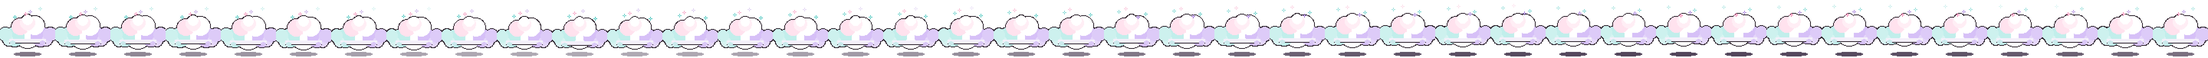
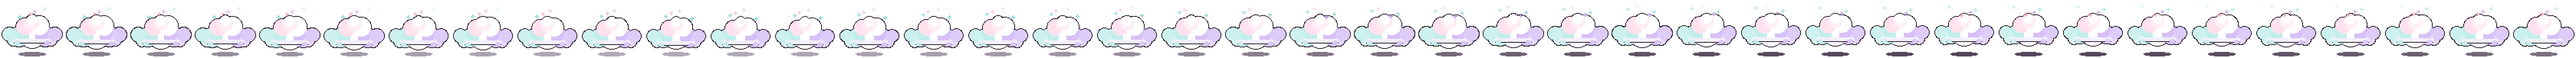
Dance Sisters v73: the big Spirit clouds are no longer cut off at the sides
Wider pictures with an edge check, and a big cloud's spot is kept
inside the stage.

Claude-Session: https://claude.ai/code/session_01KjbiH1Gxo3FA48ifQDakKd

diff --git a/dance/app.js b/dance/app.js
@@ -4,7 +4,7 @@
    decision, 30 Oct 2026: the names are fixed in the game); a level is "<stage> <name>". Save in
    localStorage['dance.save']; nothing is sent anywhere. */
 'use strict';
-const APP_VERSION = '72';
+const APP_VERSION = '73';
 const ART = 'art/'; let ART_V = '';
 const NAMES = ['Lainey', 'Miri', 'Juliette'];   // youngest first
 let SPEC = null;
@@ -145,7 +145,13 @@ const SPIRIT_MAX = 100;
 // the Spirit grows at 5 / 10 / 25 / 40 (the same cloud, bigger) and becomes a new, larger cloud at 50 / 70 / 90 (`tiers` in dancers.json, drawn by spirit.py)
 const SPIRIT_GROWS = [5, 10, 25, 40, 50, 70, 90];
 const spiritTier = sl => sl >= 90 ? 3 : sl >= 70 ? 2 : sl >= 50 ? 1 : 0;
-const spiritScale = sl => sl >= 90 ? 1.5 : sl >= 70 ? 1.4 : sl >= 50 ? 1.3 : sl >= 40 ? 1.25 : sl >= 25 ? 1.1 : sl >= 10 ? .95 : sl >= 5 ? .8 : .65;
+const spiritScale = sl => sl >= 90 ? 1.15 : sl >= 70 ? 1.25 : sl >= 50 ? 1.2 : sl >= 40 ? 1.25 : sl >= 25 ? 1.1 : sl >= 10 ? .95 : sl >= 5 ? .8 : .65;
+// a big cloud is kept inside the stage: its spot can come no nearer the sides than half its width (v73: the owner saw the clouds cut off at the sides)
+function keepIn(b) {
+  if (b.lv !== SPIRIT) return;
+  const pic = spiritPic(b.sl || 1), half = (pic.w || SPEC.w) * SCALE * spiritScale(b.sl || 1) / 2, fw = field.getBoundingClientRect().width || 370;
+  const m = Math.min(46, Math.max(6, half / fw * 100 + 1)); b.x = Math.max(m, Math.min(100 - m, b.x));
+}
 const spiritPic = sl => { const c = CHAIN[SPIRIT], t = (c.tiers || [])[spiritTier(sl)]; return t ? { ...c, sheet: t.sheet, top: t.top, w: t.w, h: t.h, mid: t.mid } : c; };
 
 /* ---------- the field ---------- */
@@ -172,7 +178,7 @@ const rnd = (a, b) => a + Math.random() * (b - a);
 function spot() { return { x: rnd(14, 86), y: rnd(60, 92) }; }
 function place(b, pop = false) {
   const el = document.createElement('div'); el.className = 'beast' + (pop ? ' pop' : '') + (Math.random() < .5 ? ' flip' : '') + (CHAIN[b.lv].stage === 0 ? ' crawl' : '');
-  const pic = b.lv === SPIRIT ? spiritPic(b.sl || 1) : CHAIN[b.lv];
+  keepIn(b); const pic = b.lv === SPIRIT ? spiritPic(b.sl || 1) : CHAIN[b.lv];
   el.innerHTML = `${spriteHTML(pic)}${lvHTML(b.lv + 1, pic)}`;
   if (b.lv === SPIRIT) {   // the cloud: semi-transparent, sized by its level (a bigger picture from 50 / 70 / 90), the level number in the middle
     const sl = b.sl || 1, ss = spiritScale(sl), tier = spiritTier(sl); el.classList.add('spirit'); el.style.setProperty('--ss', ss);
@@ -191,7 +197,7 @@ function wander() {
     const c = CHAIN[b.lv]; let run = null;
     if (c.crawl) { const k = frameNo % c.frames; run = c.crawl.find(r => k >= r[0] && k < r[0] + 5 && r[1] - r[0] > 8); if (!run) continue; }
     if (Math.random() < (run ? .7 : .25) && !(els[b.id] && els[b.id].classList.contains('drag'))) {
-      if (run && els[b.id]) els[b.id].style.transitionDuration = ((run[1] - run[0]) * 40 - 100) + 'ms'; const s = spot(); const el = els[b.id]; if (el) { el.classList.toggle('flip', s.x < b.x); } b.x = s.x; b.y = s.y; if (el) { el.style.left = s.x + '%'; el.style.top = s.y + '%'; } } }
+      if (run && els[b.id]) els[b.id].style.transitionDuration = ((run[1] - run[0]) * 40 - 100) + 'ms'; const s = spot(); const el = els[b.id]; if (el) { el.classList.toggle('flip', s.x < b.x); } b.x = s.x; b.y = s.y; keepIn(b); if (el) { el.style.left = s.x + '%'; el.style.top = s.y + '%'; } } }
 }
 let nextId = () => (save.nid = (save.nid || 0) + 1);
 function addBeast(lv, at, pop = true, sl = 1) {
@@ -213,7 +219,7 @@ function bindBeast(el, b) {
     if (!moved && Math.hypot(e.clientX - start.x, e.clientY - start.y) < 6) return;
     moved = true; el.classList.add('drag');
     const r = field.getBoundingClientRect();
-    b.x = Math.max(6, Math.min(94, (e.clientX - r.left) / r.width * 100)); b.y = Math.max(20, Math.min(94, (e.clientY - r.top) / r.height * 100));
+    b.x = Math.max(6, Math.min(94, (e.clientX - r.left) / r.width * 100)); b.y = Math.max(20, Math.min(94, (e.clientY - r.top) / r.height * 100)); keepIn(b);
     el.style.left = b.x + '%'; el.style.top = b.y + '%';
     const t = twinNear(b); if (t !== target) { if (target && els[target.id]) els[target.id].classList.remove('target'); target = t; if (t && els[t.id]) els[t.id].classList.add('target'); }
   };

diff --git a/dance/sw.js b/dance/sw.js
@@ -1,6 +1,6 @@
 // Dance Sisters service worker: the app shell is cached on install; the pictures under art/ are cached as they are fetched
 // (cache first after that) and app.js fetches every one of them once (saveOffline), so the game plays with no connection. Bump CACHE together with APP_VERSION in app.js.
-const CACHE = 'dance-v72';
+const CACHE = 'dance-v73';
 const SHELL = ['./', 'index.html', 'app.js', 'style.css', 'manifest.webmanifest', 'dancers.json', 'art/font.json', 'art/font.png', 'art/font_w.png', 'icons/icon-192.png', 'icons/icon-512.png', 'icons/apple-touch-icon-180.png'];
 self.addEventListener('install', e => { e.waitUntil(caches.open(CACHE).then(c => Promise.all(SHELL.map(u => c.add(u).catch(() => {})))).then(() => self.skipWaiting())); });
 // on activation, anything the new cache is missing (a shell file whose install fetch failed on a poor connection) is copied

diff --git a/CLAUDE.md b/CLAUDE.md
@@ -622,7 +622,7 @@ The Merge Beasts engine with **dancers**, at **latin.musicalmagic.uk/dance/** (`
 wording and sprites swapped; same save shape in `localStorage['dance.save']`). **The chain is 36 stages × 3 sisters = 108
 levels (v36: the owner wants twelve characters in every room, so nine rooms × four stages; `sisters7.py`; `load` remaps a save from the 20-stage chain by stage name, `save.chainv` = 2)** (`dance/dancers.json`: stage, sister, stageName, sheet, frames, top, crawl; worlds by stage, four each: Nursery 0–3 (Baby, Tot, **Birthday** — party hat, striped top, a balloon; a bounce, a sway and claps, a twirl — Nursery), Dance school 4–7 (Leotard, Dance school, First tutu, Jazz),
 Ballet theatre 8–11 (En pointe, Swan, **Sugar Plum** — the Nutcracker fairy, lilac tutu dotted in her colour, a wand; hops on pointe, a port de bras, piqué turns — Prima), City stage 12–15 (Street, **Tap** — waistcoat, bowler, black tap shoes; shuffle-hop, soft-shoe sway, pivot and stamp — **Salsa** — ruffles, red heels, hoop earrings; the basic step, hip sway, the cross-body turn — Stage star), World tour 16–19 (World tour, **Bollywood** — orange choli, gold bangles, a flower; shoulder bounces and jumps, wrist circles and the head slide, a spin — Movie star, Royal gala), Academy 20–23 (Teacher, **Examiner** — grey suit, a clipboard; marks, a nod, a hop — **Judge** — sequinned jacket, the "10" paddle — **Graduate** — gown and mortarboard; a jump for joy, hand on heart, a wave; `bg_academy`: a hall with three portraits, a trophy cabinet, a red carpet), **Studio 24–27** (**Rehearsal** — leggings, leg warmers `warmers`, a water bottle; star jumps, stretches, a lunge — Choreographer, **Dance captain** — black tee with her star; counts and jumps, arm sweeps, turning to the line — **Coach** — tracksuit and cap; squats, stretches, claps; `bg_studio`: a mirror wall with the cast reflected, a barre, a whiteboard, a chair, a boombox, tape marks), **Stage door 28–31** (**Understudy** — rehearsal greys, the script; Director, **Leading lady** — feather boa `collar: 'boa'`, long gloves; a kick, the boa sweep, a spin — **Producer** — the suit, a phone; `bg_stagedoor`: backstage bricks, the star door and its sign, a lamp, a costume rail, a flight case, a rope), **Hall of fame 32–35** (Icon, **Statue** — gold from head to toe, `skin_override` / `hairc_override`; a held pose and a bounce, a slow shimmer, a slow turn — **Superstar** — gold fringe and gloves, a boa; a leap, the sweep, a spin — Legend; new hats `partyhat` / `bowler` / `mortar`, props `wand` / `clipboard` / `paddle` / `bottle` / `script` / `phone`; `bg_hall`: spotlights, three framed stars in the sisters' colours, a chandelier, a marble plinth with a gold star, velvet ropes, a red carpet; `scratchpad/dancers/rooms2.py`) — **`load` migrates saves when rooms are split (v35)**: every dancer moves to the room of her stage, a bag that pointed into a later room moves there (clamped inside each room's levels), and the open rooms follow what has been made; stages: Baby, Tot, Nursery, Leotard, Dance school, First tutu,
-Jazz, En pointe, Swan, Prima, Street, Stage star, World tour, Movie star (dark bodice, long gown, flashbulbs), Royal gala (pale gown, tiara, a waltz), Teacher (bun, cardigan, black skirt, cane), **Choreographer** (all black, headset, shoes in her colour: marking the counts / arm cues / a spin to face the cast), **Director** (black coat, the beret in her dark shade and the scarf in her colour — `hatc` / `patc` on the figure, v65, after the owner found Miri and Juliette identical in all black with a red scarf: the bow from the wings), **Icon** (her colour head to toe, a silver streak: her earliest move perfected — Lainey's toddler jump as a tuck jump, Miri's sway as swan arms, Juliette's wobbly twirl as a clean double pirouette), Legend; `DESC` one line each). **A new game starts with `chainv: 2` (v60)**: the v36 old-chain conversion in `load` ran on every fresh save too (no `chainv`), and it maps a bag at a room's first level by *old* stage name — the Dance school bag went from Leotard Lainey (12) to Dance school Lainey (15), so the three Leotard dancers could never appear (the owner's daughter saw "the game has skipped 3 characters"); `load` also repairs any save whose bag sits above an unmade level of its room by putting the bag back to the lowest unmade level (a legitimately upgraded bag has every level below it made), tested by `scratchpad/dance-skip.js`. **The economy (31 Oct 2026, after the owner's daughters finished the first version in an afternoon)**: a better bag costs `crateUpCost` = 300 × 1.38^L (1.45 until v36; 108 levels) and **must be earned — the dancer three levels above the bag has to have been made by merging first** (`GATE` = 3, the owner's rule on 31 Oct 2026 after one level proved too easy and two had looked like a bug; near the end the gate is the last dancer; `crateGate` / `crateEarned`, `save.seen`; the shop row says "Locked: make … by merging first" and the button reads 🔒 Locked instead of a price), an Invite is `priceOf` = 40 × 1.35^L. **The Spirit of Dance (v46)**: level 108, stage 36, the one level above Legend Juliette — **two Legend Juliettes merge into it** (the owner's ask): a soft cloud with hints of the three sisters' colours (teal left, pink top, purple right, three sparkles in their colours, no face; `scratchpad/dancers/spirit.py`, 40 frames, `art/s37_1.png`, drawn at 48 × 64 and doubled; `sisters7.py` appends it on every rebuild) — **the owner chose this over an energy-nebula version (v48–v50, kept in `spirit_nebula.py`): "go back to this version, it was better"**, `sister: -1` in `dancers.json`, `spirit: true` in `CHAIN`, named "Spirit of / Dance" above the cloud (`lvHTML`), fanfare kicker "✨ THE SPIRIT OF DANCE ✨", `save.spirit` the first time; **it has a level (v47)**: `b.sl` 1–100 (`SPIRIT_MAX`), shown in the middle of the cloud in the dark pixel font (`.sn`), a Spirit absorbs a Legend Juliette (+1, dragged either way) or another Spirit (the levels add; `canMerge`), it is moved like any dancer, its Dancepedia line is "The spirit grows." (`DESC[36]`), the cloud is semi-transparent (`.beast.spirit .spr` opacity .8) and **grows at 5 / 10 / 25 / 40 (`spiritScale` .65 → .8 → .95 → 1.1 → 1.25, `--ss`) and becomes a new, larger cloud at 50 / 70 / 90 (v69, the owner wanted far more growth: `tiers` on the Spirit's entry in `dancers.json` — `s37_1..4.png`, drawn by `spirit.py` on their own wider pictures 96 × 128 / 144 × 152 / 184 × 184 / 224 × 216 (v70, wider as well as taller: `WX` spreads the puffs sideways and `EXTRA` adds flank puffs) with the puffs grown and multiplied and more sparkles; `spiritTier` / `spiritPic` pick the sheet in `place`, `spriteHTML` honours a level's own `w` / `h`, the cloud is centred on its spot with `.beast.spirit .spr` absolute and never mirrored, the level number's `bottom` comes from the tier's `mid`, scales 1.3 / 1.4 / 1.5, so the top cloud is ~290 px wide on a phone; `SPIRIT_GROWS` for the toasts; `scratchpad/dance-spirit3.js` screenshots every growth level), earns its level × a dancer's rate (`earns`); **level 100 wins the game** (`won()`, once, `save.won`: the owner's words — "Congratulations … The girls have gone beyond being physical dancers and have become the universal spirit of dance itself …" — with RESTART ON HARD MODE as the only button — **Keep playing was removed in v68** (the owner: the game makes no sense in that state) and `main()` shows the ending again on every launch while `save.won` is set, so the only way on is the hard restart). **Hard mode** (`hardMode`, `save.hard` counts restarts): everything is undone — dancers, coins, bags, upgrades, Dancepedia, stars, encores — and `RATE` is halved per hard restart; a `#hardTag` after the rate in the top bar; it lives in the Hall of fame (`stages: [32, 36]`); bags never bring it (`canUp` stops at `CHAIN.length - 2`); two Spirits cannot merge (the Hall opens) and a Spirit or a Legend Juliette can be retired (`isFinal` = `LEGEND` or `SPIRIT`, both set in `buildChain`). **The ending** (`discover` on `LEGEND` = Legend Juliette, not the last level → `finale`, once, `save.finished`; the trio is `CHAIN.slice(LEGEND - 2, LEGEND + 1)`): a curtain-call overlay (`.finale`: red curtains part, the three Legends dancing, a pixel trophy `art/trophy.png`, confetti, "You did it!"), then the Spirit. **The Hall of Fame sheet (the 🏆 button, Retire a Legend for a ⭐ and two hours' coins) was removed in v66** — the owner: that was the old 'encore' ending, replaced by the Spirit of Dance; `main()` removes `#hallBtn` from an older cached page; **hard mode is offered only on the Congratulations screen when the Spirit reaches 100** (v67, the owner: the Dancepedia link is just a restart / delete-my-progress link). **Encore was removed in v61** (the owner: the Spirit ending replaced it); `RATE` still honours `save.encore` for the few saves that used it. **Start the game again (v62, v64)**: a link at the bottom of the Dancepedia (always reachable — the owner looked for it there) and of the Hall of Fame (`NEW_GAME_LINK`, `newGame()`) wipes the save to a fresh one after two confirms (no bonus, no penalty; `save.hard` is dropped too). The Home button (the house in the top bar linking to the games list) was dropped in v62 at the owner's request. **Costumes and moves were audited against real dance conventions (v45, 31 Oct 2026; `scratchpad/dancers/audit_current.md` + `research_ballet.md` / `research_styles.md` / `research_roles.md`: the RAD uniform guide, Odette / Sugar Plum costume guides, tap / jazz / salsa / flamenco / fan dance / Bollywood conventions)** and the mismatches fixed in `sisters7.py`: pink tights and shoes in every ballet stage (never white); En pointe is class wear (leotard, little skirt, pink pointe shoes with `ribbons`, bun — no tutu); Swan, Sugar Plum and Prima wear the classical `tutu` (the romantic `tutu_big` is Giselle), Odette all white with a tiara and only a pale sash in her colour, the Sugar Plum Fairy and the Prima a tiara too (`prop` may be a tuple: two props at once); the hats were the wrong way round — the top hat is tap / vaudeville, the bowler is Fosse jazz — so **Jazz** is a class (no hat, tan jazz shoes, hair back) and **Tap** has the top hat, a black waistcoat (`pattern: 'vest'`), a red bow tie (`collar: 'bowtie'`) and black tap shoes; **Salsa** is a plain fringed dress with gold heels and hoop `earrings` (dots + tiers are the flamenco dress, which went to World tour Lainey with the rose in a bun and red heels); World tour Miri dances barefoot (`shoes: 'bare'`), Juliette's fan dance is Chinese (long dress, water sleeves `sleeves: 'wide'`, gold sash, flower in an updo); **Bollywood** has real `gloves: 'bangles'` (gold bands on bare arms) and jhumka earrings; the **Teacher** wears class wear (fitted top, black wrap skirt, pink tights, flats — the cane and white collar were a schoolmistress); the **Choreographer** has her hood down and no headset (the stage manager's); the **Leading lady** takes the curtain call with a bouquet and the boa stays the Superstar's. Moves changed: Salsa Lainey never leaves the floor (hip bounce on the pause, a kick shine); Tap Miri does flap-flap-ball-change travelling, Juliette a shuffle-ball-change into a paddle turn and a stamp; flamenco Lainey is grounded (palmas and a floreo in place of the jump); Royal gala Lainey rises and falls in the waltz instead of jumping; Choreographer Lainey marks the counts small then one full jump; Examiner Lainey rises tall, nods and ticks (examiners never show approval); Leading lady Miri bows with the bouquet and blows a kiss; Statue Lainey holds, then one slow rise onto demi-pointe; Birthday Juliette twirls and bobs (the jump was Lainey's). Pointe-shoe `ribbons` are crossed round the ankle along the shin (from the knee or hip to the foot, so a raised leg keeps them) in a darker pink than the tights (v52: they used to stand straight up from the foot in the tights' own pink, so floated off a lifted leg and vanished). **Costume audit v53 (the owner: "fix all")**: ballet and pointe shoes are `pink` (deeper than the `pinklight` tights, which had hidden them), Tap shoes `'tap'` (black with a silver plate and shine), the Understudy's flats in her colour, the Swan's sash in her full colour; `warmers` run along the shin like the ribbons (`dress_foot`); from behind the star, earrings, streak, rose, flower and bow stay (mirrored); a real kick under a long / gown / dress / ruffle skirt — the foot above `base − ll × .5` and clear of the hem by 3 (v56: the first rule, `base − ll × .45` alone, put a toddler's black shoe on her dress in every Nursery jump, since the dress reaches below her feet) — is redrawn on top so the skirt parts round it (`legs_`); the coin belt narrows with the turn (`SW`); a prop in the far hand is drawn behind the body (`PROP_HAND`, `draw_prop` at module level, called after the far arm and again after the head for the near hand); hair lags the rise and fall (`hlag`, the hanging parts of straight / pony / curly / wavy / bunches) and the fringe, hair and balloon string sway with travel and lean (`sway`), both set per frame in `sisters7.py` like `tdy`. **Animation audit v54 (the owner: skirts "sit 2-dimensionally on top", clothes "move independently"; "fix all")**: the skirt's waist stays on the hips and only the hem lags (`hb` = `tdy` on the bottom points; the old whole-skirt lag made the skirt slide over the bodice); a `lean` tilts the spine from the hips (`la_`, the shoulders drop by `th(1 − cos)`) and tips the head (`s.tilt`: one eye higher than the other, the head offset along the tilt); a `bend` folds forward (`s.bow`: the head comes down in front of the chest by `bend × 1.35`, the features sit lower on the face); a tutu is a tilting disc (`disc`, `tilt` from a leg raised above `hip + ll × .3`); a raised knee lifts the hem of a short skirt or dress on its side (`lift_l / lift_r`); a turn flares the hem (`spin` = 14 × |Δturn| per frame from `sisters7.py`, `FL`), including the fringe and the ruffle tiers; dots and stripes shear with the torso (`shear(yy)`); a soft ground shadow under every figure, smaller and fainter with `lift` (`ground`, composited after the outline pass; `fig5` passes scale 2); held props continue the forearm's line (`draw_prop(…, d)`, `arm_dir` from `draw_arm`: wand, paddle, mic, fan, bouquet, bottle, clapper, phone turn with the arm; the balloon, clipboard and script keep their own orientation). **Frame-by-frame review (v57–v59, after the owner asked "why was that not picked up? there must be many more")**: `scratchpad/dancers/grids2/` holds a grid of every frame of every stage (made by the script in the session; 37 images), four reviewer agents went through every frame twice against a checklist (`review_a–d.md`, `review2_a–d.md`), and the root causes were fixed in `fig3.py` / `sisters7.py`: a small dancer's `sink` is capped at `ll × .55` and knees never go below the floor; short skirts and dresses stop above the shoes (`base − 3`); a hat's headroom caps the jump (`HEADROOM`, `room`); knees stay inside a long skirt; the hem lift from a knee is at most 3 and the flare at most 4; the loop seam (turn 2 → 0) is not a spin; a hand raised above the shoulders is drawn after the head (not lost in the hair), except from behind; near-hand props go behind the head in a bow, a turn, or when held in front of the face; a bowed head stops at the chest; props that would leave the picture are foreshortened along the arm (`k` in `draw_prop`); the blush and the eyes stay on the face in profile; the waistcoat has a back and the bow tie is not drawn on the nape; `cap=` is a cap over the sister's own hair (the Coach gave everyone Miri's curls); `KICK` reaches hip height; a baby's arms stay on the floor until she is nearly sitting; the Jazz skirt is `D(i)` (black tights on a black skirt vanished), the Director's shoes `red2` and the Producer's `grey` (black on a black hem). **Faces stay whole (v71, after the owner's screenshots of an eye sliding down Tot Juliette's cheek and Birthday Miri's face turning under her hair — "humans find it grotesque for images of children to be physically disfigured")**: the eyes are always level with each other (`ty = 0` in `draw_head`; the old tilt put one eye up to 3 px above the other, which at a 30-px face read as a dislocated eye — the head's own tip from `la_` is enough), the features slide only `vs × hr × .4` towards the side she faces (was .55, which reached the edge of the face), and the hair, fringe, hats and parting slide with them by 60 % of that (`cx0` / `cx` around the hair block), so the head turns as one piece. Known and accepted: hands meeting above the head read as a bar; a split leap's feet at the gown's hem corners; arms thin to nothing in a pure profile; a raised leg behind a tutu in a penché shows only its shoe; a pose that reaches the picture's side edge touches it. **Review again after any change to the figure code: rebuild, regenerate the grids, and look at every frame of the stages touched — a few contact sheets are not a check.** **The sisters' names are fixed in `NAMES` in `dance/app.js`** (youngest first) — the
+Jazz, En pointe, Swan, Prima, Street, Stage star, World tour, Movie star (dark bodice, long gown, flashbulbs), Royal gala (pale gown, tiara, a waltz), Teacher (bun, cardigan, black skirt, cane), **Choreographer** (all black, headset, shoes in her colour: marking the counts / arm cues / a spin to face the cast), **Director** (black coat, the beret in her dark shade and the scarf in her colour — `hatc` / `patc` on the figure, v65, after the owner found Miri and Juliette identical in all black with a red scarf: the bow from the wings), **Icon** (her colour head to toe, a silver streak: her earliest move perfected — Lainey's toddler jump as a tuck jump, Miri's sway as swan arms, Juliette's wobbly twirl as a clean double pirouette), Legend; `DESC` one line each). **A new game starts with `chainv: 2` (v60)**: the v36 old-chain conversion in `load` ran on every fresh save too (no `chainv`), and it maps a bag at a room's first level by *old* stage name — the Dance school bag went from Leotard Lainey (12) to Dance school Lainey (15), so the three Leotard dancers could never appear (the owner's daughter saw "the game has skipped 3 characters"); `load` also repairs any save whose bag sits above an unmade level of its room by putting the bag back to the lowest unmade level (a legitimately upgraded bag has every level below it made), tested by `scratchpad/dance-skip.js`. **The economy (31 Oct 2026, after the owner's daughters finished the first version in an afternoon)**: a better bag costs `crateUpCost` = 300 × 1.38^L (1.45 until v36; 108 levels) and **must be earned — the dancer three levels above the bag has to have been made by merging first** (`GATE` = 3, the owner's rule on 31 Oct 2026 after one level proved too easy and two had looked like a bug; near the end the gate is the last dancer; `crateGate` / `crateEarned`, `save.seen`; the shop row says "Locked: make … by merging first" and the button reads 🔒 Locked instead of a price), an Invite is `priceOf` = 40 × 1.35^L. **The Spirit of Dance (v46)**: level 108, stage 36, the one level above Legend Juliette — **two Legend Juliettes merge into it** (the owner's ask): a soft cloud with hints of the three sisters' colours (teal left, pink top, purple right, three sparkles in their colours, no face; `scratchpad/dancers/spirit.py`, 40 frames, `art/s37_1.png`, drawn at 48 × 64 and doubled; `sisters7.py` appends it on every rebuild) — **the owner chose this over an energy-nebula version (v48–v50, kept in `spirit_nebula.py`): "go back to this version, it was better"**, `sister: -1` in `dancers.json`, `spirit: true` in `CHAIN`, named "Spirit of / Dance" above the cloud (`lvHTML`), fanfare kicker "✨ THE SPIRIT OF DANCE ✨", `save.spirit` the first time; **it has a level (v47)**: `b.sl` 1–100 (`SPIRIT_MAX`), shown in the middle of the cloud in the dark pixel font (`.sn`), a Spirit absorbs a Legend Juliette (+1, dragged either way) or another Spirit (the levels add; `canMerge`), it is moved like any dancer, its Dancepedia line is "The spirit grows." (`DESC[36]`), the cloud is semi-transparent (`.beast.spirit .spr` opacity .8) and **grows at 5 / 10 / 25 / 40 (`spiritScale` .65 → .8 → .95 → 1.1 → 1.25, `--ss`) and becomes a new, larger cloud at 50 / 70 / 90 (v69, the owner wanted far more growth: `tiers` on the Spirit's entry in `dancers.json` — `s37_1..4.png`, drawn by `spirit.py` on their own wider pictures 96 × 128 / 168 × 152 / 232 × 184 / 320 × 216 (v70, wider as well as taller: `WX` spreads the puffs sideways and `EXTRA` adds flank puffs; v73: the pictures are wide enough that no puff touches a side — `build` asserts it — after the owner saw the clouds sliced flat at the sides, and `keepIn` clamps a big cloud's spot so it stays inside the stage when it wanders or is dropped) with the puffs grown and multiplied and more sparkles; `spiritTier` / `spiritPic` pick the sheet in `place`, `spriteHTML` honours a level's own `w` / `h`, the cloud is centred on its spot with `.beast.spirit .spr` absolute and never mirrored, the level number's `bottom` comes from the tier's `mid`, scales 1.2 / 1.25 / 1.15, so the top cloud is ~320 px wide on a phone; `SPIRIT_GROWS` for the toasts; `scratchpad/dance-spirit3.js` screenshots every growth level), earns its level × a dancer's rate (`earns`); **level 100 wins the game** (`won()`, once, `save.won`: the owner's words — "Congratulations … The girls have gone beyond being physical dancers and have become the universal spirit of dance itself …" — with RESTART ON HARD MODE as the only button — **Keep playing was removed in v68** (the owner: the game makes no sense in that state) and `main()` shows the ending again on every launch while `save.won` is set, so the only way on is the hard restart). **Hard mode** (`hardMode`, `save.hard` counts restarts): everything is undone — dancers, coins, bags, upgrades, Dancepedia, stars, encores — and `RATE` is halved per hard restart; a `#hardTag` after the rate in the top bar; it lives in the Hall of fame (`stages: [32, 36]`); bags never bring it (`canUp` stops at `CHAIN.length - 2`); two Spirits cannot merge (the Hall opens) and a Spirit or a Legend Juliette can be retired (`isFinal` = `LEGEND` or `SPIRIT`, both set in `buildChain`). **The ending** (`discover` on `LEGEND` = Legend Juliette, not the last level → `finale`, once, `save.finished`; the trio is `CHAIN.slice(LEGEND - 2, LEGEND + 1)`): a curtain-call overlay (`.finale`: red curtains part, the three Legends dancing, a pixel trophy `art/trophy.png`, confetti, "You did it!"), then the Spirit. **The Hall of Fame sheet (the 🏆 button, Retire a Legend for a ⭐ and two hours' coins) was removed in v66** — the owner: that was the old 'encore' ending, replaced by the Spirit of Dance; `main()` removes `#hallBtn` from an older cached page; **hard mode is offered only on the Congratulations screen when the Spirit reaches 100** (v67, the owner: the Dancepedia link is just a restart / delete-my-progress link). **Encore was removed in v61** (the owner: the Spirit ending replaced it); `RATE` still honours `save.encore` for the few saves that used it. **Start the game again (v62, v64)**: a link at the bottom of the Dancepedia (always reachable — the owner looked for it there) and of the Hall of Fame (`NEW_GAME_LINK`, `newGame()`) wipes the save to a fresh one after two confirms (no bonus, no penalty; `save.hard` is dropped too). The Home button (the house in the top bar linking to the games list) was dropped in v62 at the owner's request. **Costumes and moves were audited against real dance conventions (v45, 31 Oct 2026; `scratchpad/dancers/audit_current.md` + `research_ballet.md` / `research_styles.md` / `research_roles.md`: the RAD uniform guide, Odette / Sugar Plum costume guides, tap / jazz / salsa / flamenco / fan dance / Bollywood conventions)** and the mismatches fixed in `sisters7.py`: pink tights and shoes in every ballet stage (never white); En pointe is class wear (leotard, little skirt, pink pointe shoes with `ribbons`, bun — no tutu); Swan, Sugar Plum and Prima wear the classical `tutu` (the romantic `tutu_big` is Giselle), Odette all white with a tiara and only a pale sash in her colour, the Sugar Plum Fairy and the Prima a tiara too (`prop` may be a tuple: two props at once); the hats were the wrong way round — the top hat is tap / vaudeville, the bowler is Fosse jazz — so **Jazz** is a class (no hat, tan jazz shoes, hair back) and **Tap** has the top hat, a black waistcoat (`pattern: 'vest'`), a red bow tie (`collar: 'bowtie'`) and black tap shoes; **Salsa** is a plain fringed dress with gold heels and hoop `earrings` (dots + tiers are the flamenco dress, which went to World tour Lainey with the rose in a bun and red heels); World tour Miri dances barefoot (`shoes: 'bare'`), Juliette's fan dance is Chinese (long dress, water sleeves `sleeves: 'wide'`, gold sash, flower in an updo); **Bollywood** has real `gloves: 'bangles'` (gold bands on bare arms) and jhumka earrings; the **Teacher** wears class wear (fitted top, black wrap skirt, pink tights, flats — the cane and white collar were a schoolmistress); the **Choreographer** has her hood down and no headset (the stage manager's); the **Leading lady** takes the curtain call with a bouquet and the boa stays the Superstar's. Moves changed: Salsa Lainey never leaves the floor (hip bounce on the pause, a kick shine); Tap Miri does flap-flap-ball-change travelling, Juliette a shuffle-ball-change into a paddle turn and a stamp; flamenco Lainey is grounded (palmas and a floreo in place of the jump); Royal gala Lainey rises and falls in the waltz instead of jumping; Choreographer Lainey marks the counts small then one full jump; Examiner Lainey rises tall, nods and ticks (examiners never show approval); Leading lady Miri bows with the bouquet and blows a kiss; Statue Lainey holds, then one slow rise onto demi-pointe; Birthday Juliette twirls and bobs (the jump was Lainey's). Pointe-shoe `ribbons` are crossed round the ankle along the shin (from the knee or hip to the foot, so a raised leg keeps them) in a darker pink than the tights (v52: they used to stand straight up from the foot in the tights' own pink, so floated off a lifted leg and vanished). **Costume audit v53 (the owner: "fix all")**: ballet and pointe shoes are `pink` (deeper than the `pinklight` tights, which had hidden them), Tap shoes `'tap'` (black with a silver plate and shine), the Understudy's flats in her colour, the Swan's sash in her full colour; `warmers` run along the shin like the ribbons (`dress_foot`); from behind the star, earrings, streak, rose, flower and bow stay (mirrored); a real kick under a long / gown / dress / ruffle skirt — the foot above `base − ll × .5` and clear of the hem by 3 (v56: the first rule, `base − ll × .45` alone, put a toddler's black shoe on her dress in every Nursery jump, since the dress reaches below her feet) — is redrawn on top so the skirt parts round it (`legs_`); the coin belt narrows with the turn (`SW`); a prop in the far hand is drawn behind the body (`PROP_HAND`, `draw_prop` at module level, called after the far arm and again after the head for the near hand); hair lags the rise and fall (`hlag`, the hanging parts of straight / pony / curly / wavy / bunches) and the fringe, hair and balloon string sway with travel and lean (`sway`), both set per frame in `sisters7.py` like `tdy`. **Animation audit v54 (the owner: skirts "sit 2-dimensionally on top", clothes "move independently"; "fix all")**: the skirt's waist stays on the hips and only the hem lags (`hb` = `tdy` on the bottom points; the old whole-skirt lag made the skirt slide over the bodice); a `lean` tilts the spine from the hips (`la_`, the shoulders drop by `th(1 − cos)`) and tips the head (`s.tilt`: one eye higher than the other, the head offset along the tilt); a `bend` folds forward (`s.bow`: the head comes down in front of the chest by `bend × 1.35`, the features sit lower on the face); a tutu is a tilting disc (`disc`, `tilt` from a leg raised above `hip + ll × .3`); a raised knee lifts the hem of a short skirt or dress on its side (`lift_l / lift_r`); a turn flares the hem (`spin` = 14 × |Δturn| per frame from `sisters7.py`, `FL`), including the fringe and the ruffle tiers; dots and stripes shear with the torso (`shear(yy)`); a soft ground shadow under every figure, smaller and fainter with `lift` (`ground`, composited after the outline pass; `fig5` passes scale 2); held props continue the forearm's line (`draw_prop(…, d)`, `arm_dir` from `draw_arm`: wand, paddle, mic, fan, bouquet, bottle, clapper, phone turn with the arm; the balloon, clipboard and script keep their own orientation). **Frame-by-frame review (v57–v59, after the owner asked "why was that not picked up? there must be many more")**: `scratchpad/dancers/grids2/` holds a grid of every frame of every stage (made by the script in the session; 37 images), four reviewer agents went through every frame twice against a checklist (`review_a–d.md`, `review2_a–d.md`), and the root causes were fixed in `fig3.py` / `sisters7.py`: a small dancer's `sink` is capped at `ll × .55` and knees never go below the floor; short skirts and dresses stop above the shoes (`base − 3`); a hat's headroom caps the jump (`HEADROOM`, `room`); knees stay inside a long skirt; the hem lift from a knee is at most 3 and the flare at most 4; the loop seam (turn 2 → 0) is not a spin; a hand raised above the shoulders is drawn after the head (not lost in the hair), except from behind; near-hand props go behind the head in a bow, a turn, or when held in front of the face; a bowed head stops at the chest; props that would leave the picture are foreshortened along the arm (`k` in `draw_prop`); the blush and the eyes stay on the face in profile; the waistcoat has a back and the bow tie is not drawn on the nape; `cap=` is a cap over the sister's own hair (the Coach gave everyone Miri's curls); `KICK` reaches hip height; a baby's arms stay on the floor until she is nearly sitting; the Jazz skirt is `D(i)` (black tights on a black skirt vanished), the Director's shoes `red2` and the Producer's `grey` (black on a black hem). **Faces stay whole (v71, after the owner's screenshots of an eye sliding down Tot Juliette's cheek and Birthday Miri's face turning under her hair — "humans find it grotesque for images of children to be physically disfigured")**: the eyes are always level with each other (`ty = 0` in `draw_head`; the old tilt put one eye up to 3 px above the other, which at a 30-px face read as a dislocated eye — the head's own tip from `la_` is enough), the features slide only `vs × hr × .4` towards the side she faces (was .55, which reached the edge of the face), and the hair, fringe, hats and parting slide with them by 60 % of that (`cx0` / `cx` around the hair block), so the head turns as one piece. Known and accepted: hands meeting above the head read as a bar; a split leap's feet at the gown's hem corners; arms thin to nothing in a pure profile; a raised leg behind a tutu in a penché shows only its shoe; a pose that reaches the picture's side edge touches it. **Review again after any change to the figure code: rebuild, regenerate the grids, and look at every frame of the stages touched — a few contact sheets are not a check.** **The sisters' names are fixed in `NAMES` in `dance/app.js`** (youngest first) — the
 owner's explicit decision on 30 Oct 2026, reaffirmed after the risk of a public repo was put to him; this is the one
 exception to the no-names rule above and it covers the three first names only (no surnames, ages, school or photos — the
 photos he sent to set the looks are not in the repo and must never be); a level is `nameOf(c)` = "<stage> <name>". **The art is the cute 48 × 64 chibi style the owner's daughters loved (v24), chosen again on 31 Oct 2026 after a higher-resolution, likeness-driven redraw (fig4 / sisters4, hand-pixelled heads, kept in the session scratchpad with the research and the plan) was rejected: "not recognisable, and we've lost the cute look"** — at a 30-px face a likeness is carried by hair, colour, size and movement, not by drawing the face. The looks, youngest first: Lainey dark-brown wavy hair pulled back for class (bunches with blue bows at Nursery), simple smile; Miri a mass of dark curls with a centre parting (`curly`), a small grin; Juliette long straight dark hair, tallest, a small grin. **Each sister has a colour family for every costume** (`COL` in `sisters5.py`: Lainey teal, Miri pink, Juliette purple — main / light / dark; the Swan tutu stays white and the Legend gown gold, with the sister's colour on the bodice or panel), and **every stage has its own combination of silhouette, tone, pattern or second colour, legwear, hair or hat and prop** (v32, after the girls found many too similar; `STAGES` in `sisters6.py`; `fig3` options `pattern` dots / stripes / star / sash, `patc`, `gloves`, `collar`, hats and hair `tophat` / `beret` / `hood` / `updo` / `pony` / `bunches`, props `flowers` / `balloon` / `clapper`): Baby nappy; Tot dotted top + tiny tutu, hair down; Nursery party dress with a white collar, a balloon, bunches / curls / ponytail; Leotard pale leotard + white tights; Dance school bun, black practice skirt, pink tights; First tutu dark bodice with a gold sash, big pale tutu, bow / tiara / flower; Jazz striped top, black skirt and tights, a top hat; En pointe white leotard, her tutu, ribbons, bun; Swan all white with her sash and a tiara; Prima dark bodice, her tutu, pink tights, a bouquet, hair up high; Street tee, jeans, trainers, cap / ponytail; Stage star black sequin top, her fringe, gold shoes, mic / star; World tour flamenco ruffles / coin skirt / fan gown; Movie star gold top, her long gown, long gloves, a clapperboard, updo; Royal gala pale gown, white gloves, red sash, tiara; Teacher cardigan with a white collar, black wrap skirt, cane, bun; Choreographer her hoodie, black joggers, headset; Director black coat, red scarf, black beret; Icon her colour head to toe with a white star and the silver streak; Legend gold head to toe with her panel, gold gloves, a star above her — then the stages above. **Art**: 16-bit-style pixel sprites, **the cute 48-unit chibi design drawn at 96 × 128 (v31)** — `fig5.py` runs `fig3`'s body through the doubling canvas (`S2`, finer 1-px outline and shading, the big head and simple dark eyes kept; `facekind` small / round / tall gives Lainey smaller cheerful eyes and Juliette taller ones) — drawn by the session scratchpad generators `scratchpad/dancers/fig2.py` (the palette and the first figure) and **`sisters6.py` (= `sisters5.py` on `figure5`, with secondary motion: the skirt `tdy` and the head lag the body's rise and fall by a frame) + `fig3.py` / `fig5.py`** (`choreography.md`, `plan.md`, `brief.md` and the three `research_*.md` beside them): **each sister has a movement personality that holds through every stage, so she is known without her name — Lainey jumps (lifts, squats, leaps), Miri flows (arms, balances, sways, head tilts), Juliette turns (spins, footwork, clean finishes)** — and **the moves climb a real ladder** (toddler bounce / sway / tiptoe / gallop → primary-class pliés, tendus, sautés, port de bras → arabesque, échappé, pas de chat, développé, a single pirouette → jazz kick-ball-change, isolations, jazz square + pivot → pointe échappés, bourrée, piqué turns → swan sissonnes, swan arms + penché, bourrée en tournant → grand jeté, attitude promenade, fouettés → running man, body wave, two-step + freeze → kick line + split leap, mic turn, chaînés → flamenco / belly dance / fan dance → red carpet, a waltz, teaching, choreographing, the director's bow, the icon's perfected first move → grand jeté manège, penché, fouettés, all into a révérence); the Baby crawls (Lainey fast then bum-bounces; Miri sits rocking and clapping with a short crawl; Juliette crawls and pushes up to kneel). Keyframes are eased to 32 frames (40 for Baby, Prima, Legend). `fig3.figure3` takes a continuous `pose` — limb endpoints, optional knees `lk/rk`, elbows `le/re`, `sink` (hips drop for a plié), lean, bend, lift, `pointe`, `jazz` hands, a `turn` that **rotates the body in depth (v37, after the owner saw World tour Juliette "split in half" by the old squash-and-mirror spin): `vc`/`vs` = cos/sin of the angle; every sideways offset (feet, knees, hands, elbows, shoulders) is scaled by cos, the torso and skirts narrow to no less than 42 %, a tutu stays a disc, the far arm is drawn behind the body, patterns and the gown panel only show from the front, and `draw_head` slides the features round the head (one eye in profile) and covers the face with hair from behind (`s.view`)**, and for babies `tilt` 0 crawl → 1 sit, `knees` 1 kneel, `stride`; `loop(keys, n)` eases between weighted keyframes, `turn` always forwards — → `dance/art/sNN_G.png` horizontal sprite sheets + `dancers.json`; the older `sisters.py` / `fig2.figure` drew the first 6–8 still poses); `spriteHTML(c, scale)` shows a sheet as a
